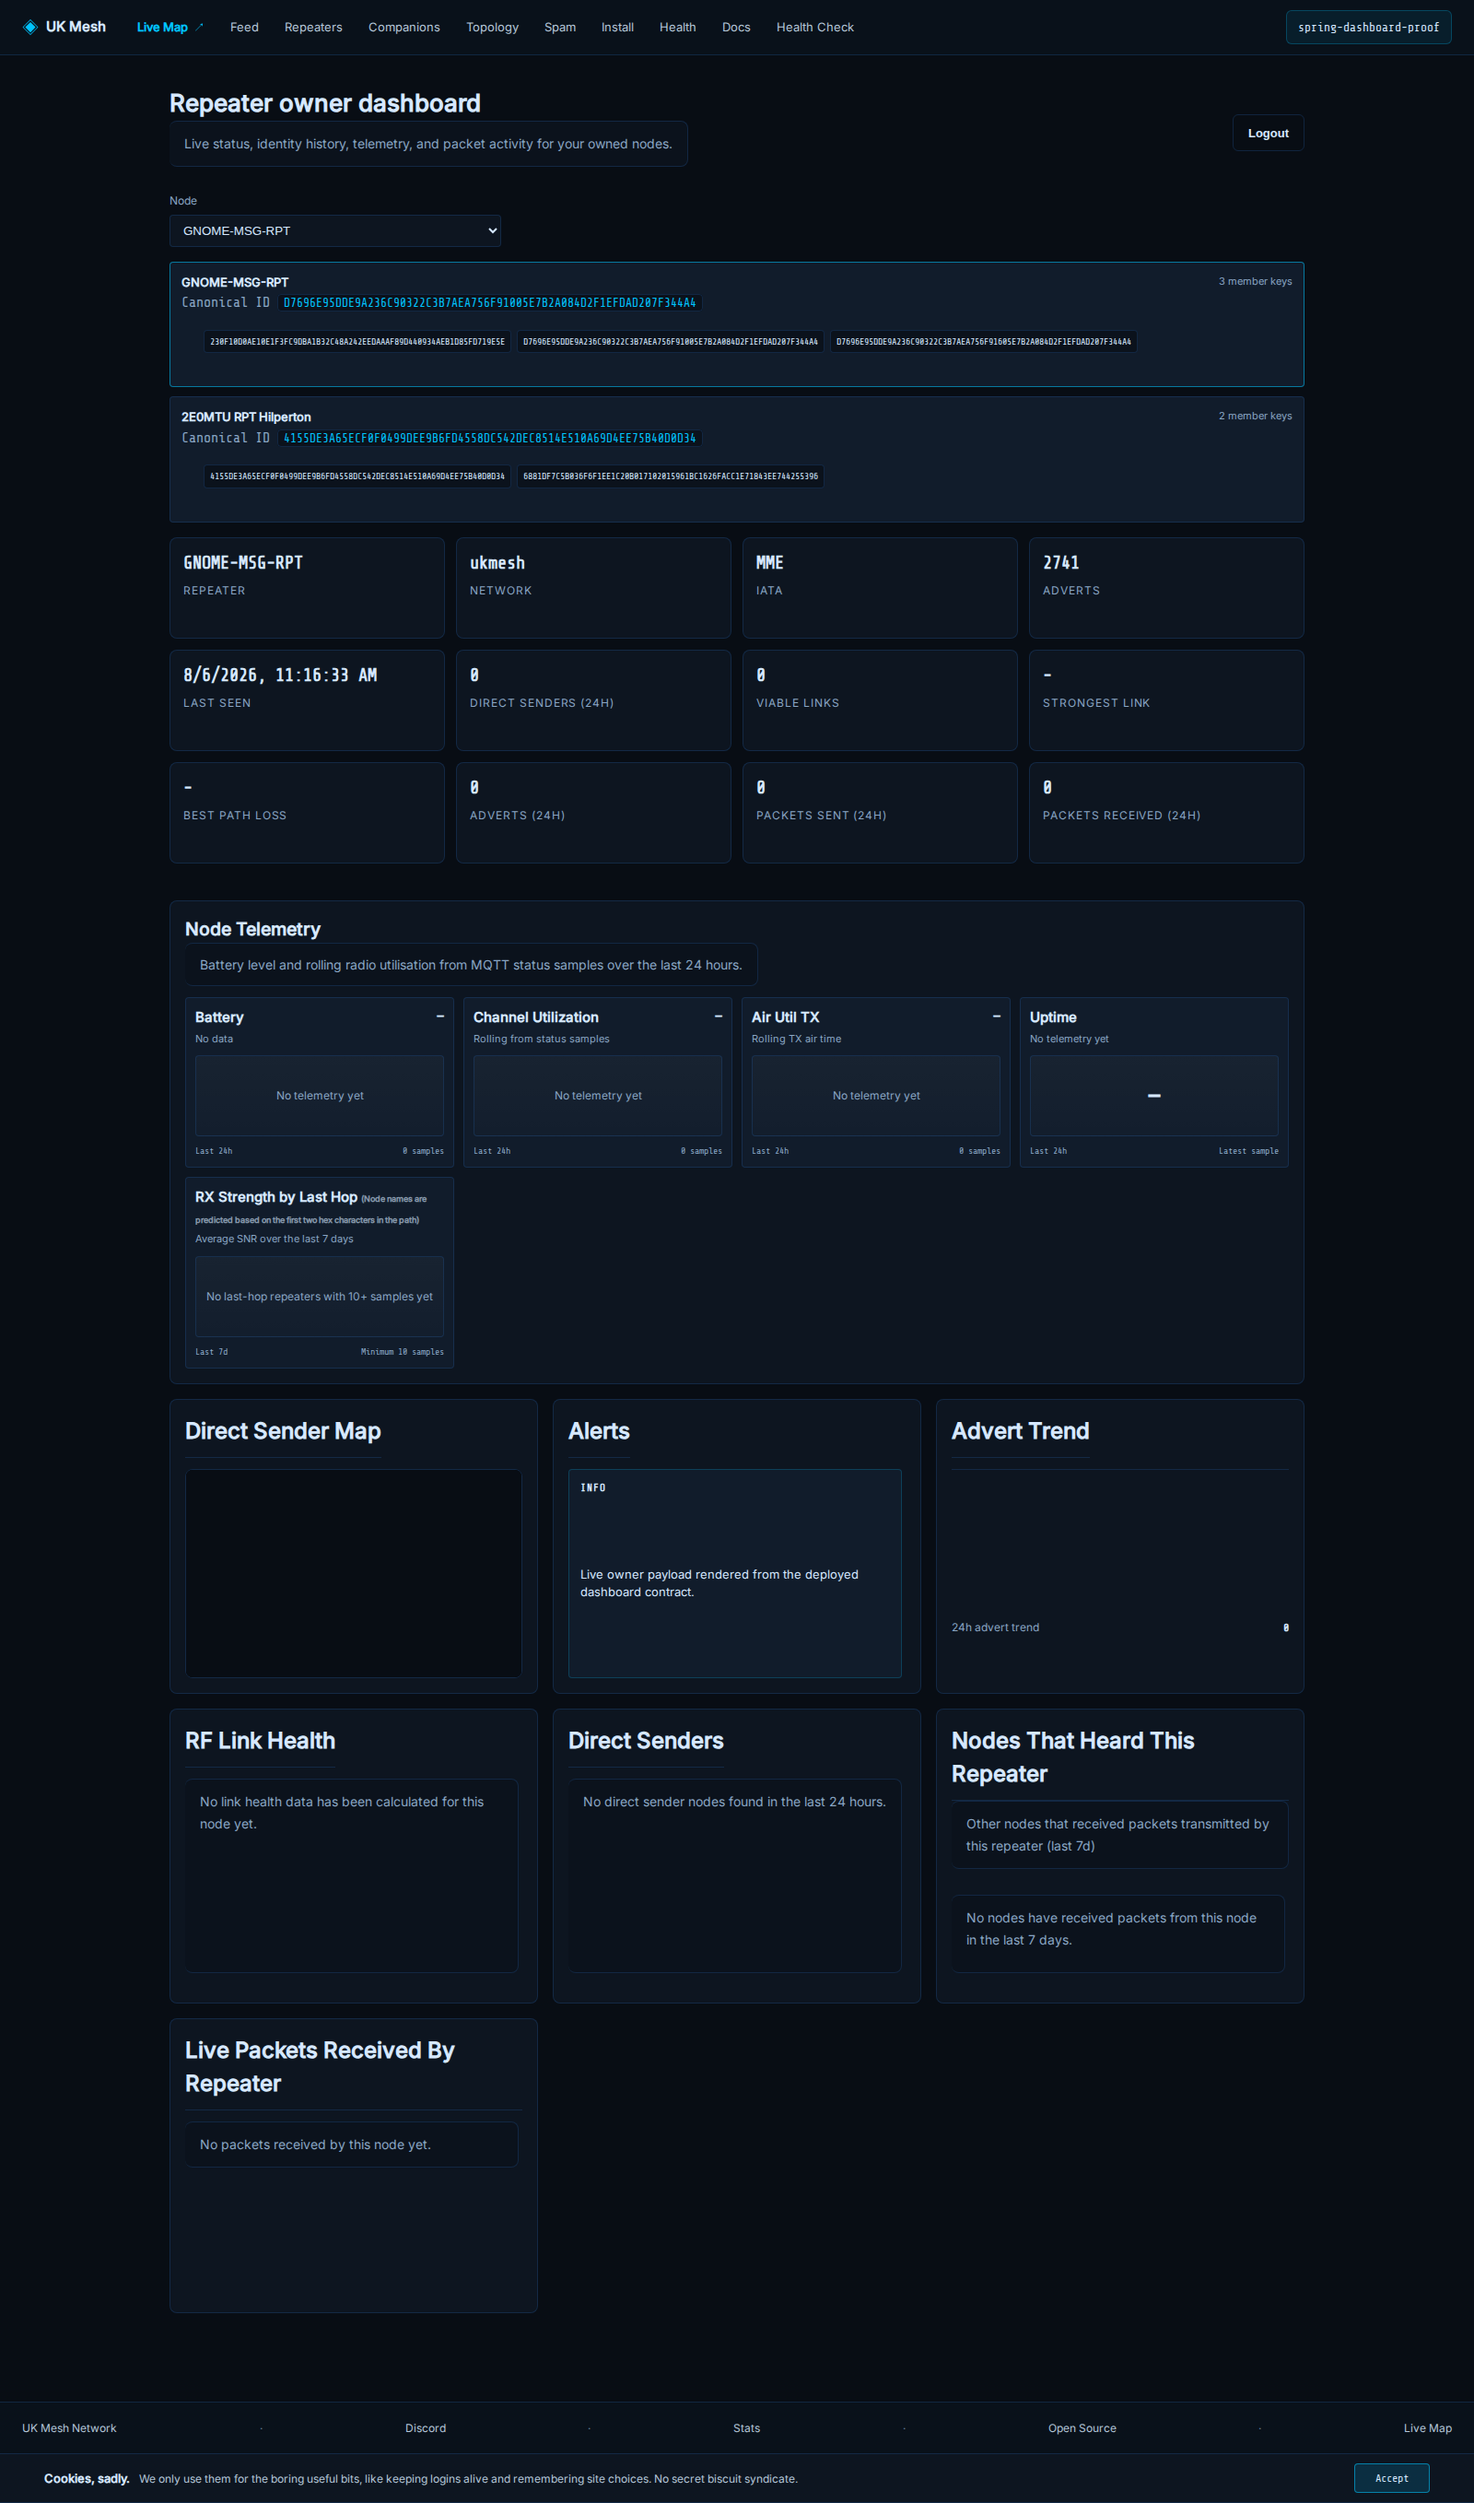
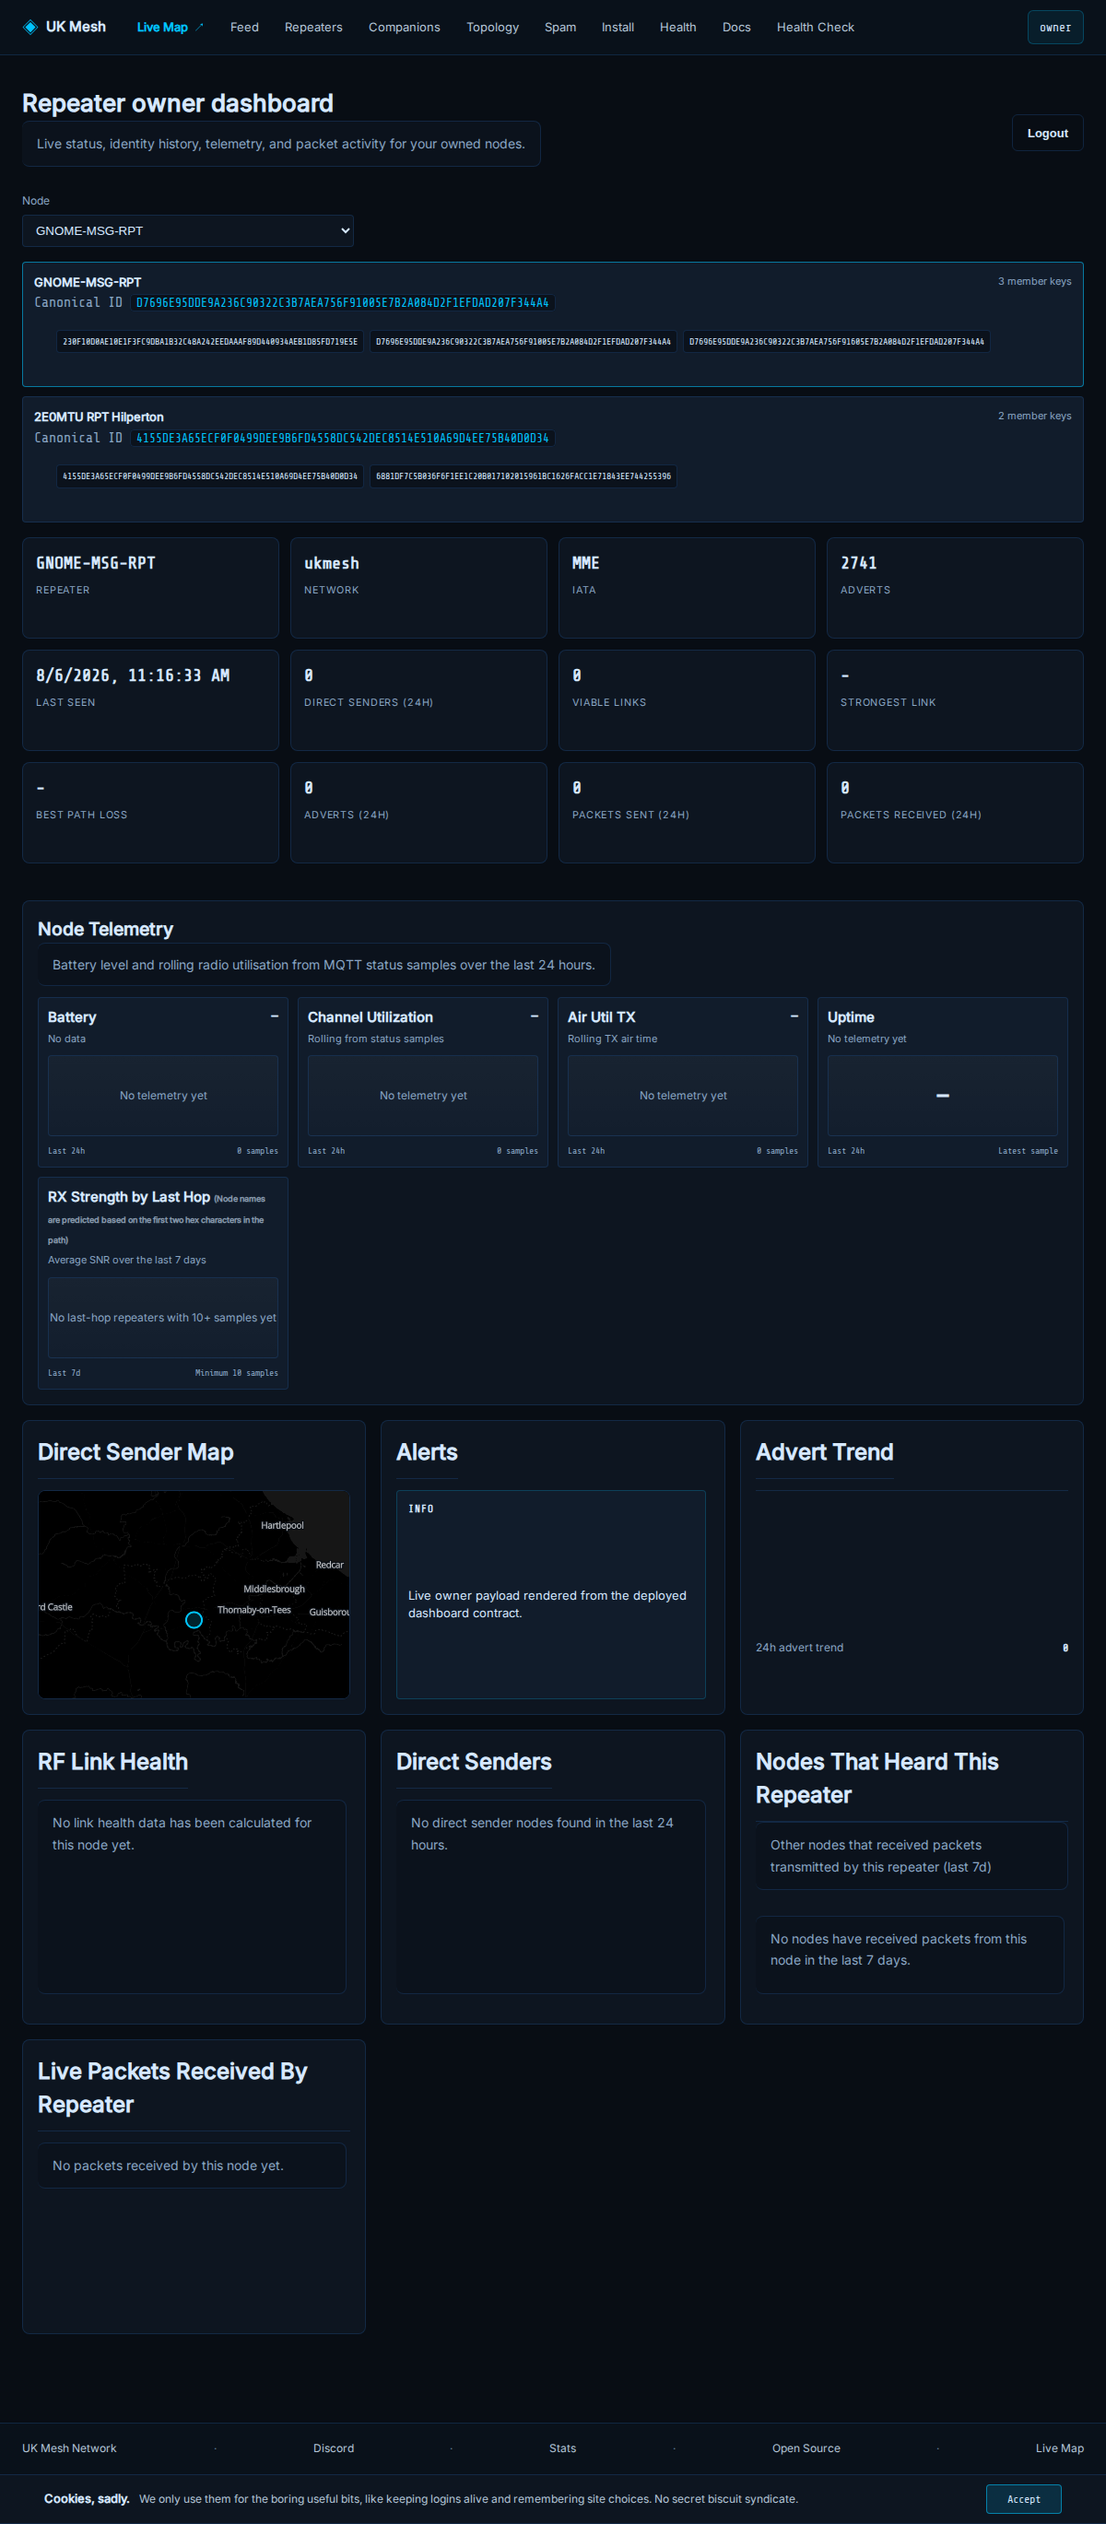
chore(owner): remove proof-only dashboard artifact

diff --git a/SPRING-DASHBOARD-2026-08-06.md b/SPRING-DASHBOARD-2026-08-06.md
@@ -30,8 +30,11 @@ The Googlebot Playwright smoke loaded the real public owner route
 credential is available on this host, the smoke used the read-only live
 grouping payload from production and intercepted only the authenticated session
 and live requests; the deployed public JS/CSS and route were loaded from the
-real site. Assertions found 2 identity cards, 1 GNOME card, 1 2E0MTU card,
-member counts 3/2, zero section tabs, and zero settings UI.
+real site. The temporary session response uses the neutral label `owner`, not
+a proof label. Assertions found 2 identity cards, 1 GNOME card, 1 2E0MTU card,
+member counts 3/2, zero section tabs, zero settings UI, and zero
+`spring-dashboard-proof` text. No proof-mode toggle or proof token is present
+in source or in the shipped app image.
 
 Quality gates:
 
@@ -55,5 +58,5 @@ Deployed services use the spring-dash image tags and are healthy:
 
 Only `APP_IMAGE` and `WEBSITE_IMAGE` were updated in the ignored `.env`, as
 required. The backend image was supplied explicitly for this rollout without
-altering other `.env` lines. The implementation commit hash is added to this
-record immediately after the local code commit.
+altering other `.env` lines. The implementation commit is `1e5bc3b`; this
+screenshot/proof-audit update is recorded in the follow-up local commit.

diff --git a/PLAN-spring-clean-2026-08-06.md b/PLAN-spring-clean-2026-08-06.md
@@ -103,8 +103,7 @@ start from the live state.
   The backend alert API/worker remains because it is an active operational
   delivery path, not a projected page feature.
 - **Implementation:** added canonical grouping tests and updated owner
-  response/e2e coverage. Local implementation commit is recorded in the final
-  handoff after verification.
+  response/e2e coverage. Implementation commit: `1e5bc3b`.
 - **Quality gates:** backend `npx tsc --noEmit`; backend `npm test` = 273/273
   passing (271 existing tests plus 2 grouping tests); frontend
   `npx tsc --noEmit`, `npm test` = 76/76, `npm run lint:css`, and `npm run
@@ -126,4 +125,7 @@ start from the live state.
   live grouping payload because no owner MQTT credential is present on the
   host. Browser assertions found 2 identity cards, exactly 1 GNOME card, 1
   2E0MTU card, 3 and 2 member keys respectively, zero section tabs, and zero
-  settings UI. Screenshot: `SPRING-DASHBOARD-2026-08-06.png`.
+  settings UI. The temporary browser response uses the neutral label `owner`;
+  the screenshot contains zero `spring-dashboard-proof` text. A source and
+  shipped-app audit found no proof-mode toggle or proof token in the
+  frontend/backend bundle. Screenshot: `SPRING-DASHBOARD-2026-08-06.png`.
